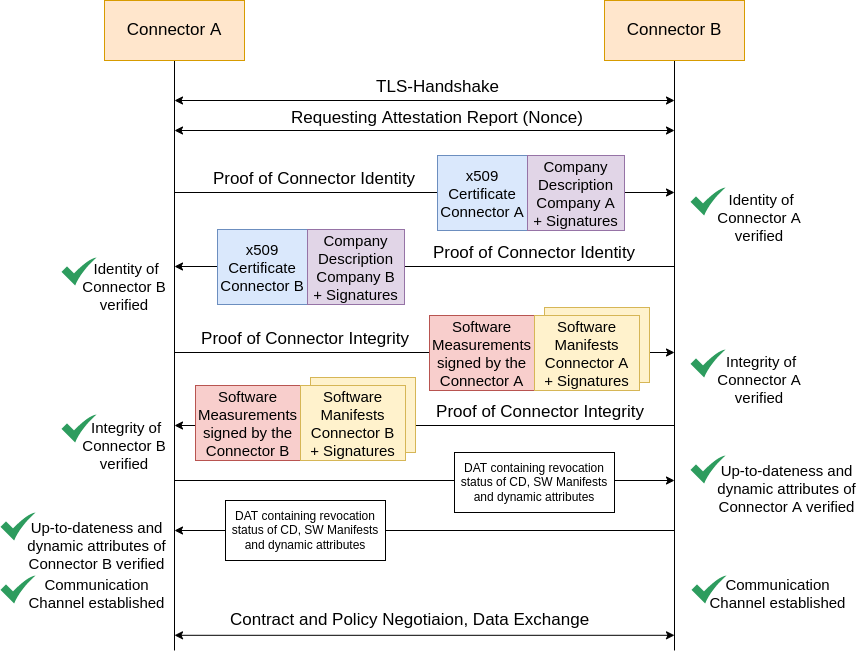
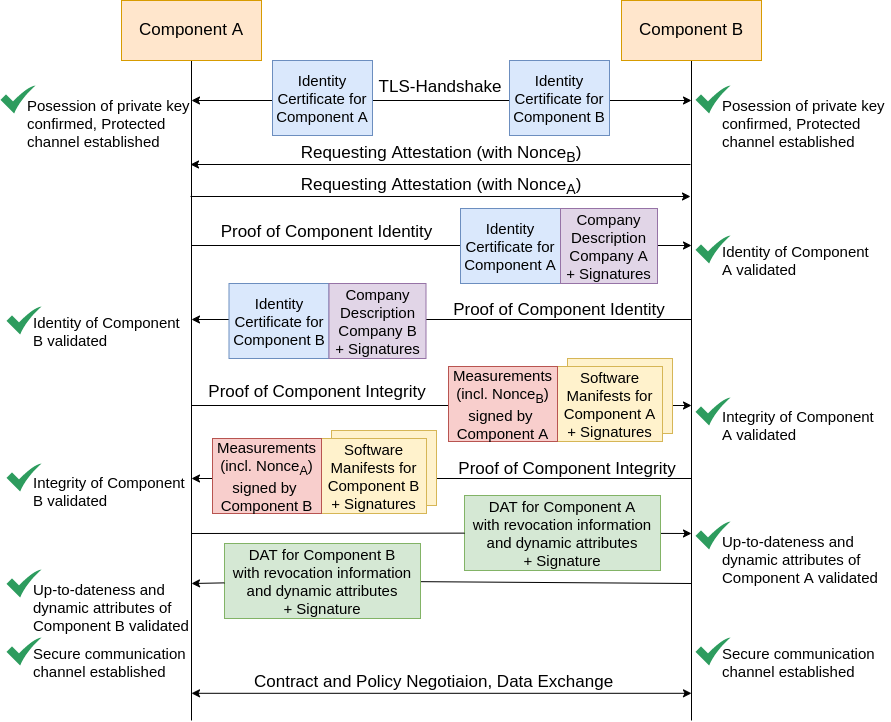
[securing communication] described required information and establishment of communication channel

Changed region(s): [[0.0, 0.0, 0.9977, 0.9816], [0.7558, 0.8896, 0.9977, 0.9509]]

diff --git a/documentation/4_Perspectives_of_the_Reference_Architecture_Model/4_1_Security_Perspective/4_1_5_Securing_Interaction_between_IDS_components.md b/documentation/4_Perspectives_of_the_Reference_Architecture_Model/4_1_Security_Perspective/4_1_5_Securing_Interaction_between_IDS_components.md
@@ -1,28 +1,39 @@
 Issue for this section: https://github.com/International-Data-Spaces-Association/IDS-RAM_4_0/issues/73
 
-# Securing Interaction between IDS Components - Gerd
+# 4.1.5. Securing Interaction between IDS Components - Gerd
 
 Target: Establishment of a secure communication channel between IDS components
 identification, authentication, authorization for components and confidentiality and integrity protection for communication
 
-## Preparation for Communication/Required Information - Monika
-This requires the following information:
-* device identity certificate
-* proving ownership of the respective private key
-* information about the responsible company (operator)
-* integrity proof of software stack: measurements and software manifests
-* Up-to-dateness of transferred information and additional dynamic information -> DAPS
+## Preparation of Required Information
 
+In preparation for the establishment of a secure communication channel, an IDS component needs to be have a set of information available as shown in the image below.
 ![Overview Required Information](./media/information_for_communication_channel.png)
 
-## Establishment of a Secure Communication Channel - Monika
-TLS Handshake
-Remote Attestation Report übertragen und überprüfen
-  * Exchange of software manifests
-  * Verification of software manifests
-  DAT übertragen und prüfen
+Most of the information is provisioned onto the component when it is initially taken into service and only updated occasionally when things change:
+* A private key called **Identity Key** is used to identify the component ([Chapter 4.1.2.](./4_1_2_Identity_and_Trust_Management.md)). The key needs to be protected on the device and shall be only known to this specific component.
+* The **Device Identity Certificate** maps the public key (corresponding to the private key) to a UID and the responsible company (operator) as described in [Chapter 4.1.2.](./4_1_2_Identity_and_Trust_Management.md).
+* The **Company Description** contains metadata concerning the responsible company (as described in [Chapter 4.1.2.](./4_1_2_Identity_and_Trust_Management.md)), in particular its certification level from the Operational Environment Certification ([Chapter 4.2.3](../4_2_Certification_Perspective/4_2_3_Operational_Environment_Certification.md)).
+* **Software Manifests** for all utilized software components contain metadata describing the deployed software (as described in [Chapter 4.1.2.](./4_1_2_Identity_and_Trust_Management.md)), in particular the expected measurements and information about the certification level based on the Component Certification ([Chapter 4.2.4.](../4_2_Certification_Perspective/4_2_4_Component_Certification.md)).
+* The **CA Trust List** contains information about all Certificate Authorities (CAs) used in the IDS which issue identity certificates for devices and users as described in [Chapter 4.1.2.](./4_1_2_Identity_and_Trust_Management.md). It is used as a trust anchor for validating signatures based on the utilized certificate and certificate chain.
+
+Additionally, the IDS component requires two artifacts for the establishment of a secure communication channel that need to be requested regularly during connector operation:
+* The **Dynamic Attribute Token (DAT)** contains up-to-date revocation information about the utilized Company Descriptions and Software Manifests as well as dynamic attributes for the component. It is only valid for a short amount of time and the component regularly needs to request it from the Dynamic Attribute Provisioning Server (DAPS) to be able to prove current attributes and the up-to-dateness of the utilized software stack.
+* The integrity of the software stack can only be proven (as requested for Trust Level 2 and 3) with **Measurements** collected during a measured boot as described in [Chapter 4.1.3](./4_1_3_Securing_the_Platform.md). Those measurements are stored in an integrity protected way and get provided upon request (with a Nonce for freshness) by the hardware trust anchor with a signature proving their correctness.
+
+## Establishment of a Secure Communication Channel
+The establishment of a secure communication channel requires five essential steps which use the information described above. The image below shows the necessary information for the different validation steps separately to show the logic behind the validations. However, in an implementation of the protocol, necessary information may be transferred in a combined Attestation Report.
 
 ![Communication Channel Establishment](./media/communication_channel_establishment.png)
+
+1. **TLS Handshake**: The communication channel builds on an existing standard to achieve communication security: Transport Layer Security (TLS, currently in
+[Version 3](https://datatracker.ietf.org/doc/html/rfc8446)). The TLS handshake protocol is used to set up an authenticated, confidential and integrity-protected communication channel based on the Identity Device Certificates (before transferring all other information using the TLS record protocol).
+2. **Requesting Attestation**: Each component requests the information required for a remote attestation from its communication partner. The request includes a random nonce which can be used to prove freshness of the provided attestation information.
+3. **Identity Validation**: Each component validates the identity of its communication partner based on the utilized identity certificate (mapping of key to UID and company) and the company description with the certification level from Operational Environment Certification ([Chapter 4.2.3](../4_2_Certification_Perspective/4_2_3_Operational_Environment_Certification.md)).
+4. **Integrity Validation**: Current measurements of the utilized software stack in combination with metadata about the functionalities and certification level of the used software artifacts allow an assessment of IDS component and possible consequences of a data exchange. While the validation of actual measurements is only possible/required for component of Trust Level 2 or 3, the software manifests may also be transferred for components of Trust Level 1 to provide some transparency.
+5. **Validation of Up-to-dateness and Dynamic Attributes**: The Dynamic Attribute Token issued from the DAPS allows revocation of issued certification (incl. information about newer software versions or found vulnerabilities) and supplements the long-living information in Company Description and Software Manifests with confirmed dynamic attributes as described in [Chapter 4.1.2.](./4_1_2_Identity_and_Trust_Management.md). The establishment of a communication channel requires the validation of this current information in order to fully assess the trustworthiness of the other component.
+
+Based on these steps, each component has transparent information about their communication partner and can sovereignly decide about (the terms for) data sharing.
 
 ## Data Transfer using this Communication Channel - Gerd
 
